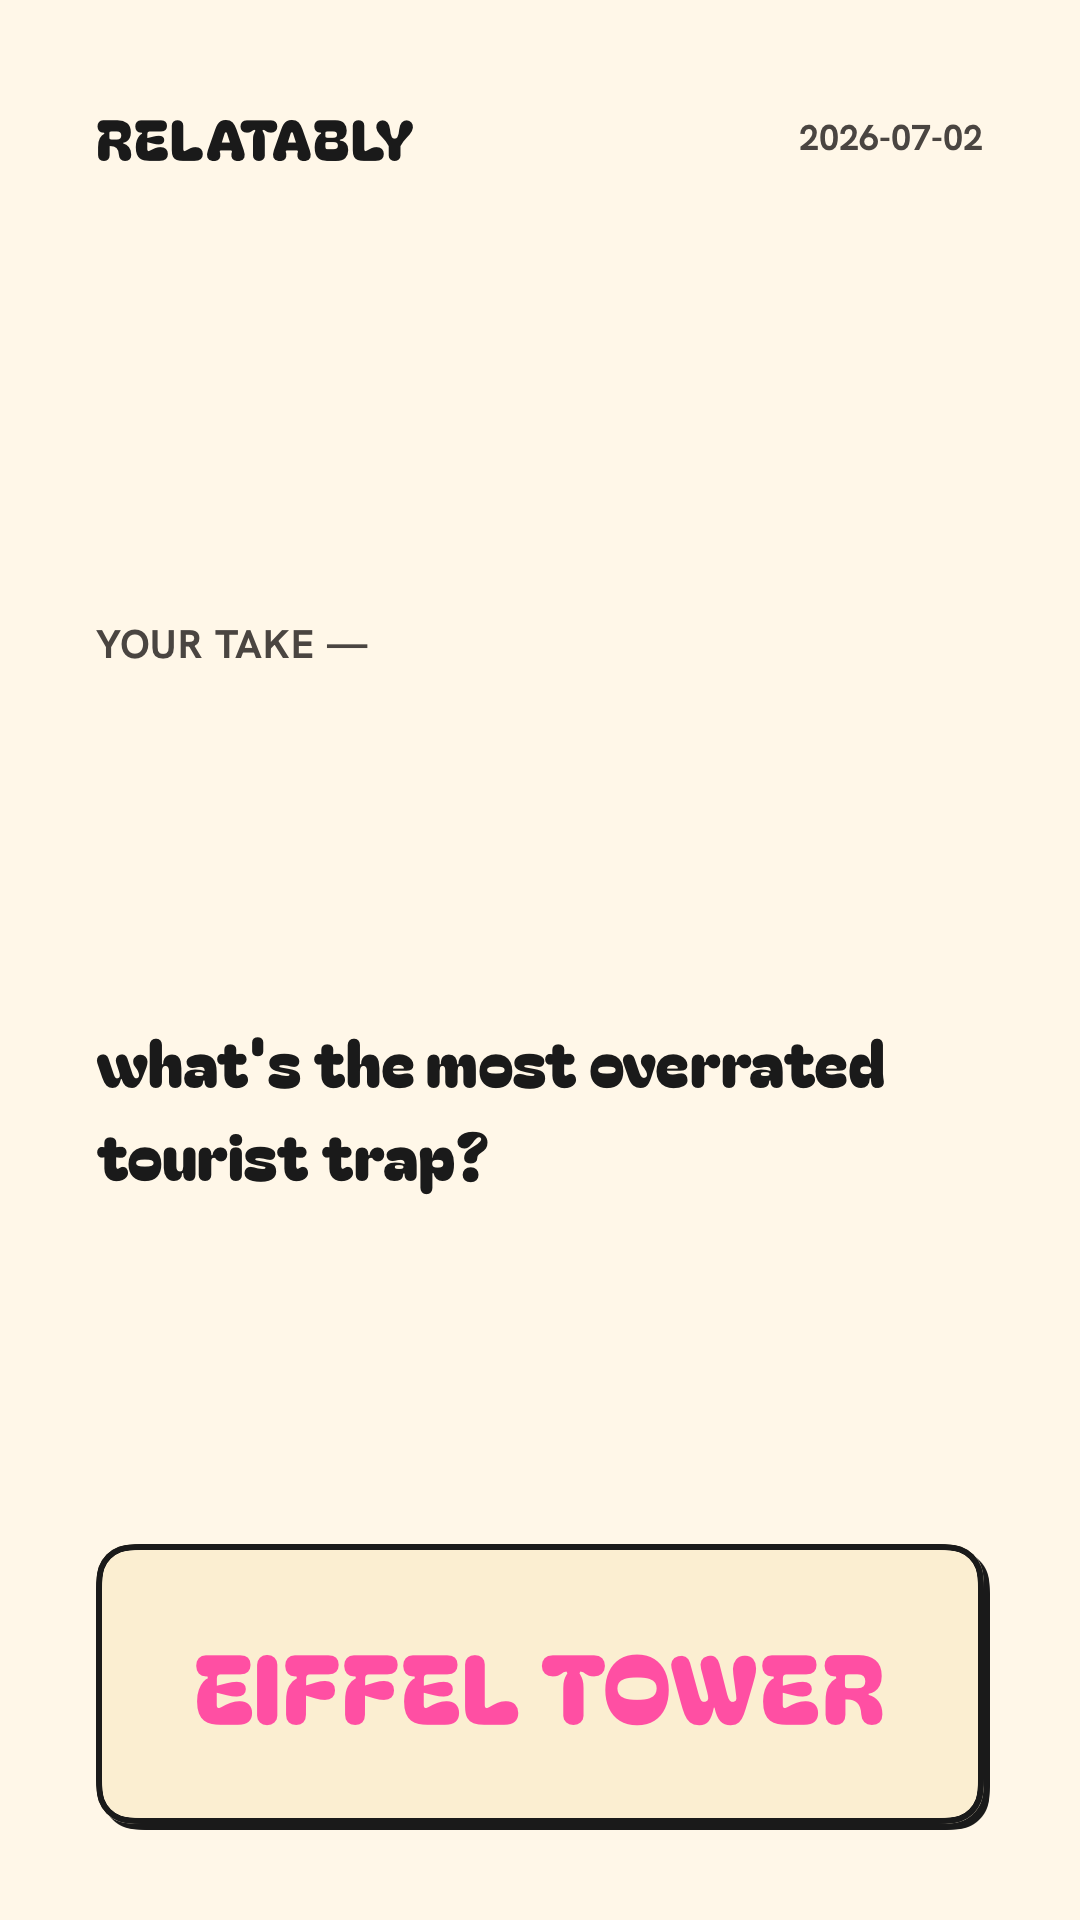
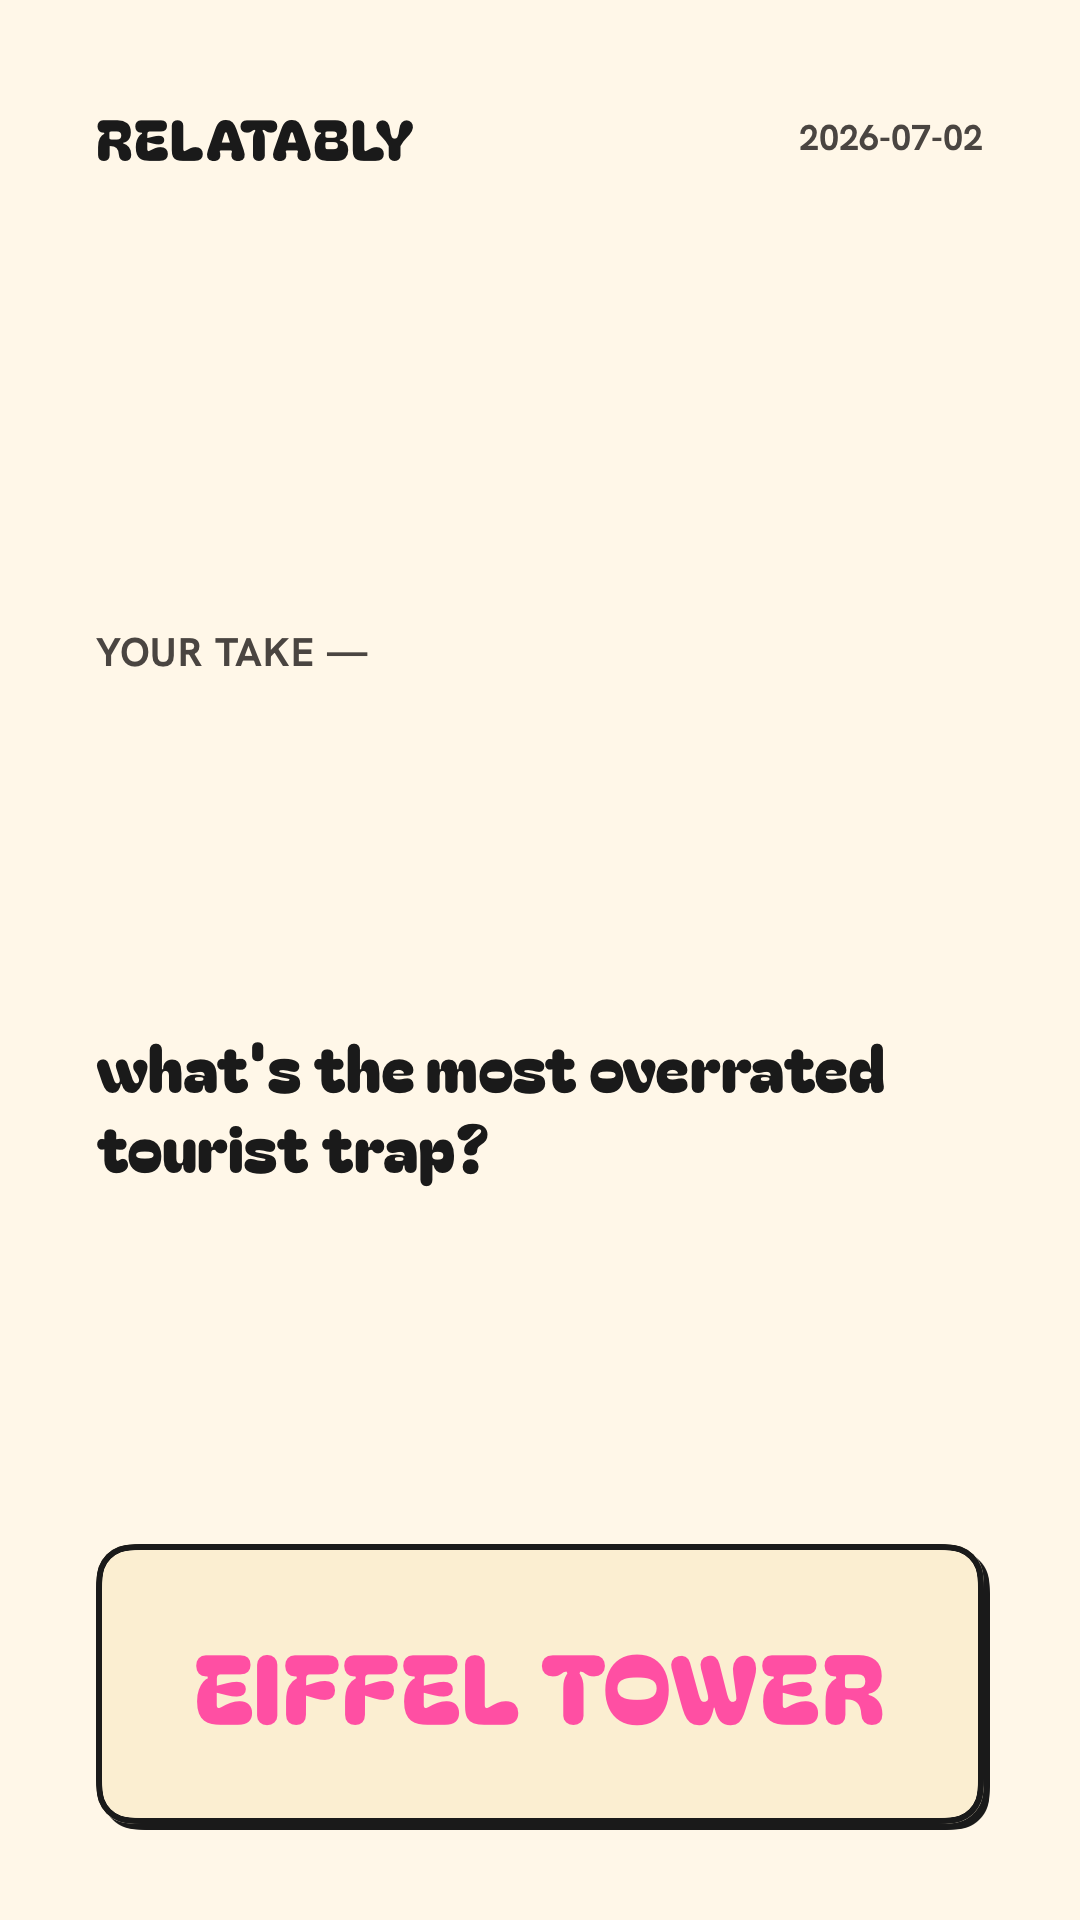
test(swift): visual parity pass vs RN app
Side-by-side RN (local Release build, prod API) vs SwiftUI walkthrough on
iPhone 16 Pro Max: 8 screen pairs + overlays in ios-swift/verification/parity/,
verdicts and accepted deviations in PARITY.md.

Fixes one systematic drift found: RN lineHeight is a TextKit hard clamp, but
TypeStyleModifier only padded when the token was TALLER than the font's
natural box — BagelFatOne (~1.45x size) rendered at natural metrics, shifting
every display title ~8-13pt and the 3-line question hero ~40pt vs RN.
Now: signed delta, TextKit-style first-baseline placement, and an iOS 18+
TextRenderer that compresses line pitch to exactly the token (SwiftUI clamps
negative lineSpacing); frame shrunk to n*lineHeight via measured line count.
Post-fix ink bands match RN within about 1pt; 271 tests green.

Claude-Session: https://claude.ai/code/session_01Ef6Lc9kDVJTvhnVf28hE53

Changed region(s): [[0.0917, 0.5312, 0.825, 0.625], [0.0917, 0.3125, 0.3361, 0.3438]]

diff --git a/ios-swift/Relatably/DesignSystem/Tokens.swift b/ios-swift/Relatably/DesignSystem/Tokens.swift
@@ -89,22 +89,76 @@ enum Typography {
     static let micro = TypeStyle(family: Fonts.spaceGroteskBold, size: 9, lineHeight: 12, letterSpacing: 1.3)
 }
 
-/// Applies a `TypeStyle` with RN line-height semantics: the token's
-/// `lineHeight` is an absolute line-box height, so the delta over the font's
-/// natural line height is applied as explicit line spacing plus half-delta
-/// vertical padding (headroom so BagelFatOne ascenders don't clip).
+/// Applies a `TypeStyle` with RN line-height semantics. RN/TextKit treats
+/// `lineHeight` as a HARD clamp (NSParagraphStyle minimum==maximum): the line
+/// pitch is exactly `lineHeight` even when the font's natural line box is
+/// TALLER (BagelFatOne's is ~1.45x its point size, so hero 52/62 renders at
+/// a 62pt pitch in RN, not 75pt), and glyphs sit on a baseline `descent` up
+/// from the line-box bottom. SwiftUI equivalent (verified against RN
+/// screenshots in verification/PARITY.md): apply the SIGNED delta as
+/// lineSpacing between lines, plus the same delta as top padding — that
+/// bottom-aligns the first baseline exactly like TextKit and makes the text
+/// block exactly n*lineHeight tall. Glyphs never clip: SwiftUI draws them
+/// outside the shrunken frame.
 struct TypeStyleModifier: ViewModifier {
     let style: TypeStyle
 
+    /// Measured line count (raw text height / natural line height) — drives
+    /// the bottom compensation that shrinks the frame to n*lineHeight when
+    /// the natural line box is taller than the token (delta < 0).
+    @State private var lineCount = 1
+
+    @ViewBuilder
     func body(content: Content) -> some View {
         let uiFont = UIFont(name: style.family, size: style.size)
             ?? UIFont.systemFont(ofSize: style.size)
-        let delta = max(0, style.lineHeight - uiFont.lineHeight)
-        return content
+        let natural = uiFont.lineHeight
+        let delta = style.lineHeight - natural
+        let styled = content
             .font(style.font)
             .kerning(style.letterSpacing)
-            .lineSpacing(delta)
-            .padding(.vertical, delta / 2)
+        if delta >= 0 {
+            // Natural box fits inside the token box: extra space between
+            // lines + on top (TextKit bottom-aligns the first baseline).
+            styled
+                .lineSpacing(delta)
+                .padding(.top, delta)
+        } else if #available(iOS 18.0, *) {
+            // Natural box TALLER than the token (all BagelFatOne styles).
+            // SwiftUI clamps negative .lineSpacing to 0, so compress the
+            // pitch in drawing (TextRenderer shifts line i up by i*|delta|)
+            // and shrink the frame to exactly n*lineHeight via negative
+            // top/bottom padding.
+            styled
+                .textRenderer(LinePitchClamp(delta: delta))
+                .onGeometryChange(for: Int.self) { proxy in
+                    max(1, Int((proxy.size.height / natural).rounded()))
+                } action: { lineCount = $0 }
+                .padding(.top, delta)
+                .padding(.bottom, CGFloat(lineCount - 1) * delta)
+        } else {
+            // iOS 17 fallback: first line lands exactly like TextKit; the
+            // pitch of additional lines stays at the font's natural height
+            // (14% airier for BagelFatOne — best effort without UIKit text).
+            styled
+                .padding(.top, delta)
+        }
+    }
+}
+
+/// Draws each line of a `Text.Layout` at a compressed pitch: line i is
+/// shifted up by `i * |delta|`, so line pitch = natural + delta = the
+/// token's lineHeight. Glyphs are NOT clipped — SwiftUI draws whole lines.
+@available(iOS 18.0, *)
+private struct LinePitchClamp: TextRenderer {
+    let delta: CGFloat // negative
+
+    func draw(layout: Text.Layout, in ctx: inout GraphicsContext) {
+        for (index, line) in layout.enumerated() {
+            var lineCtx = ctx
+            lineCtx.translateBy(x: 0, y: CGFloat(index) * delta)
+            lineCtx.draw(line)
+        }
     }
 }
 

diff --git a/ios-swift/verification/PARITY.md b/ios-swift/verification/PARITY.md
@@ -1,0 +1,109 @@
+# Visual Parity Report — SwiftUI rebuild vs React Native app
+
+Task 19 of the SwiftUI rebuild (branch `feat/swiftui-rebuild`), 2026-07-03.
+
+## Method
+
+- **RN baseline:** the shipping Expo app in `ios/`, built locally in Release
+  (`xcodebuild -workspace Relatably.xcworkspace -scheme Relatably -configuration Release`,
+  with `EXPO_PUBLIC_API_URL=https://relatably.vercel.app` exported so the embedded
+  Hermes bundle hits production). No fallback needed — the build succeeded.
+- **SwiftUI build:** `ios-swift` Release, ad-hoc sim signing.
+- Both apps share bundle id `co.relatably.app`, so they were captured sequentially on
+  the same iPhone 16 Pro Max simulator (iOS 26.5): fresh install → `simctl keychain
+  reset` (fresh EULA + fresh anon user) → identical walkthrough (EULA → I AGREE →
+  question → type "parity" → 3 s dwell → DROP IT → wordcloud → BOARD → ARCHIVE →
+  archive detail → FRIENDS → ME). Taps via AXe, screenshots via `simctl io screenshot`,
+  status bar pinned via `simctl status_bar override` (9:41 / wifi / charging) for both.
+- Pairs live in `ios-swift/verification/parity/` as `rn-*.png` / `swift-*.png`
+  (plus red/green blend overlays in `parity/overlay/`: RN ink = red, SwiftUI ink =
+  green, coincident ink = dark).
+- Comparison was numeric, not just visual: per-screen vertical ink-profile
+  cross-correlation and per-element ink-band measurements (glyph rows in px @3x),
+  then classification: (a) real drift → fixed, (b) documented deliberate deviation →
+  listed below, (c) live-content difference → ignored.
+
+## Drift found and FIXED: RN lineHeight semantics (systematic)
+
+The one systematic drift the per-screen reviews had missed:
+
+- RN/TextKit treats `lineHeight` as a **hard clamp** (`minimumLineHeight ==
+  maximumLineHeight`): line pitch is exactly the token value even when the font's
+  natural line box is taller, and glyphs sit `descent` up from the line-box bottom.
+- BagelFatOne's natural line box is **~1.45x its point size** (hero 52 → 75.3 pt,
+  h1 40 → 57.9 pt, h2 36 → 52.1 pt), i.e. TALLER than every display token
+  (62/48/44/28 and the wordcloud-bubble 1.2x rule).
+- `TypeStyleModifier` previously used `delta = max(0, lineHeight − natural)`, so the
+  clamp-down case silently rendered at natural metrics. Measured drift before the fix:
+  EULA title block −10.7 pt, board −8.3 pt, ME −9.7 pt, question title −13 pt **and**
+  hero line pitch 75.3 pt instead of 62 pt (3-line question title pushed the input +
+  DROP IT ~40 pt lower than RN).
+
+**Fix** (`Relatably/DesignSystem/Tokens.swift`, `TypeStyleModifier` + new
+`LinePitchClamp`): signed delta; `.padding(.top, delta)` bottom-aligns the first
+baseline exactly like TextKit; for delta < 0 a `TextRenderer` (iOS 18+) draws line *i*
+shifted up by `i·|delta|` (SwiftUI clamps negative `.lineSpacing` to 0) and the frame
+is shrunk to exactly `n·lineHeight` via measured line count. iOS 17 falls back to
+correct first-line placement with natural pitch for additional lines (visual-only,
+review devices and ~all users are far past iOS 17).
+
+Post-fix measurements (same walkthrough re-captured): question-screen ink bands match
+RN within **≤1 pt** on all five elements (title lines at 92.3/155.3/217.0 pt vs RN
+92.7/155.7/217.3 pt; input 271.0 vs 272.0 pt; DROP IT 350.3 vs 349.3 pt); best-shift
+cross-correlation ≤5 px (1.7 pt) on every screen except friends (8 px, see deviations).
+Wordcloud bubbles now also clamp to RN's `round(1.2 × fontSize)` line box.
+
+## Per-screen verdicts (after fix)
+
+| # | Screen | Pair | Verdict |
+|---|--------|------|---------|
+| 1 | EULA (TosGate) | rn/swift-01 | **PASS** — shift ≤4 px; bullet-4 wrap point differs (deviation 2) |
+| 2 | Today — question | rn/swift-02 | **PASS** — all ink bands ≤1 pt; 1.2 % pixel diff |
+| 3 | Today — wordcloud (post-submit) | rn/swift-03 | **PASS** — header/hint/delete pixel-aligned; cluster contents+arrangement are live data (c) |
+| 4 | Board (signed-out demo board) | rn/swift-04 | **PASS** — shift 1 px, profile corr 0.999 |
+| 5 | Archive list | rn/swift-05 | **PASS** — shift 1 px; both apps render the "–" date-tab placeholder (RN `date_label` ghost field faithfully ported) |
+| 6 | Archive detail | rn/swift-06 | **PASS** — rows ≤5 px; verdict wrap point (deviation 2) + date format (deviation 3) |
+| 7 | Friends (SIWA gate) | rn/swift-07 | **PASS** — card within 8 px (~2.7 pt; entrance-spring settle of the rotated card), subtitle wrap (deviation 2) |
+| 8 | Me (settings) | rn/swift-08 | **PASS** — title/cards aligned; gear glyph (deviation 1) |
+
+The Today `.reveal` phase (yesterday's results + "continue →") is unreachable on a
+fresh install in BOTH apps (requires an answer from the previous day), so it has no
+pair; its known deliberate deviation is listed below (4).
+
+## Accepted deliberate deviations (documented, NOT drift)
+
+1. **ME tab gear is monochrome** (`App/StickerTabBar.swift`): SwiftUI forces text
+   presentation with U+FE0E; RN renders bare U+2699 as the color EMOJI gear (visible
+   in rn-02/04/05/06/08). The RN source styles it with a text color (monochrome
+   intent); the emoji rendering is an RN/iOS artifact we deliberately do not copy.
+2. **Line-break strategy**: SwiftUI/TextKit 2 uses the `.standard` strategy (avoids
+   widowed last words); RN's TextKit 1 stack wraps greedily. Same fonts, sizes and
+   container widths — only the chosen break point can differ (EULA bullet 4
+   "…game (the) wordcloud.", friends-gate "…and (compare) answers.", archive-detail
+   "pumpkin (spice) latte"). Matching RN exactly would require UIKit labels for every
+   multiline text; accepted as engine-level.
+3. **Archive dates honor the device locale** (`Features/Archive/ArchiveViewModel.swift`
+   `formatDate`): the RN source calls `toLocaleDateString()` *intending* device-locale
+   dates, but Hermes pins it to en-US ("5/10/2026" even on a German device). Swift
+   implements the source intent per the extraction report's explicit direction
+   (localized "Mdyyyy" template → "10.5.2026" on de-DE). RN's behavior is an engine
+   artifact we deliberately do not replicate.
+4. **Reveal bottom padding** (`Features/Today/RevealView.swift`): "continue →" is
+   padded above the floating tab bar; RN lets the bar cover it (the 2.1(a) dead-end
+   class this rebuild fixes).
+5. **UIAlertController action sheets** (`Core/ClusterModeration.swift`): same native
+   control RN's ActionSheetIOS uses; chosen over `confirmationDialog` (which drops the
+   Cancel button on iOS 26). Not a visual difference in stills.
+6. **Lazy first-focus boot + ME refresh-on-switch** (`App/RootTabs.swift`,
+   `Features/Me/MeView.swift`): behavioral timing parity with expo-router's lazy
+   mount; no visual effect.
+7. **iOS 17 fallback** of the line-pitch clamp (see fix above): multiline BagelFatOne
+   text renders ~14 % airier on iOS 17 only.
+
+## Fixes applied
+
+- `Relatably/DesignSystem/Tokens.swift` — RN lineHeight clamp semantics in
+  `TypeStyleModifier` (signed delta, TextKit-style first-baseline placement, iOS 18+
+  `LinePitchClamp` TextRenderer, measured-line-count frame compensation).
+
+Full suite after the fix: **271 tests, 0 failures** (iPad Air 11-inch M4, iOS 26.5).
